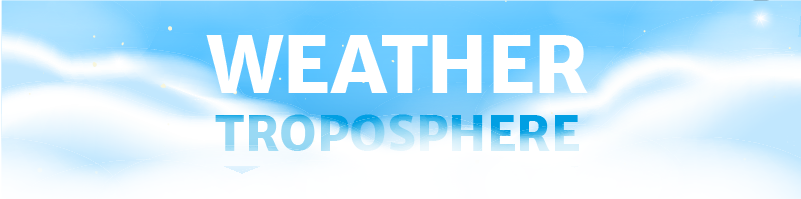
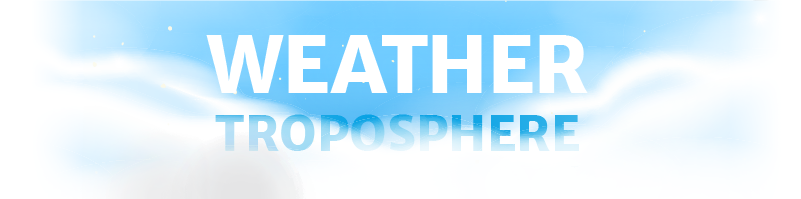
style tweaks for the type for current condtions

diff --git a/index.html b/index.html
@@ -19,17 +19,17 @@
 
 <body>
     <main class="weather-bg mx-auto">
-        <section id="lockup" class="center-me">
+        <section id="lockup" class="center-me weather-bg bottom-bg">
             <div id="heading" class="is-centered">
                 <div><img src="./assets/images/WT-header-td.png" alt="Weather Troposphere" /></div>
                 <div id="subheading" class="is-full-width p-3">    
-                    <h5 class="center-me is-size-5 mws-b has-text-white mb-2">Because, let's face it... weather usually only affects us above ground.</h5>
+                    <h5 class="center-me is-size-5 mws-b  info-med mb-2">Because, let's face it... weather usually only affects us above ground.</h5>
                 </div>
             </div>
            
         </section>
 
-        <section id="weather-data" class="columns is-narrow is-centered px-4"> <!--COLS LEVEL 1-->
+        <section id="weather-data" class="columns is-narrow is-centered p-4"> <!--COLS LEVEL 1-->
            
             <div id="search-container" class="column is-narrow has-background-info-light p-4 m-3"> <!--COL LEVEL 2-->
                 <form id="search-form" class="is-centered tile">
@@ -127,7 +127,7 @@
                         <h2 id="put-date" class="center-me is-size-6 mws-b link-med">MM/dddd/YY</h2>
                         <h2 class="center-me is-size-5 mw-b link-med my-2">Current Conditions</h2>
 
-                        <div id="put-conditions" class="link-med tile-bright has-text-centered is-size-4 mw-bl mw-b"></div>
+                        <div id="put-conditions" class="info-med tile-bright has-text-centered is-size-4 mw-bl mw-b"></div>
                      </div>
 
                  <div class="column tile">

diff --git a/assets/css/tropo-styles.css b/assets/css/tropo-styles.css
@@ -1,5 +1,5 @@
 :root {
-    --link-med: hsl(204, 71%, 30%);
+    --info-med: hsl(204, 71%, 30%);
 }
 
 .mws-li {
@@ -93,8 +93,8 @@
     font-family: "Merriweather Serif", serif;
     }
 
-    .link-med {
-    color: var(--link-med);
+    .info-med {
+    color: var(--info-med);
     }
 
   /* LAYOUT */
@@ -114,7 +114,11 @@
   .weather-bg {
     background-image: url(../images/WT-body-footer-td.png);
     background-size: cover;
-    background-position: center;
+    /* background-position: center; */
+  }
+
+  .bottom-bg {
+    background-position: bottom;
   }
 
   .tile {
